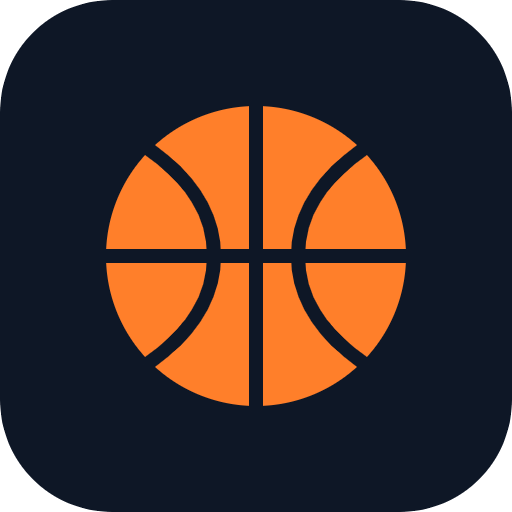
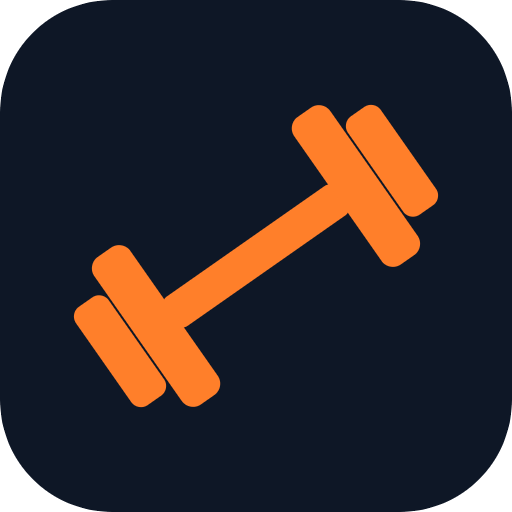
Icono: pesa en lugar de balón

Changed region(s): [[0.125, 0.1875, 0.875, 0.8125]]

diff --git a/sw.js b/sw.js
@@ -1,5 +1,5 @@
 // Service worker: funciona sin conexión y muestra las notificaciones push.
-const VERSION = "habits-v1";
+const VERSION = "habits-v2";
 const SHELL = [
   "./",
   "index.html",
